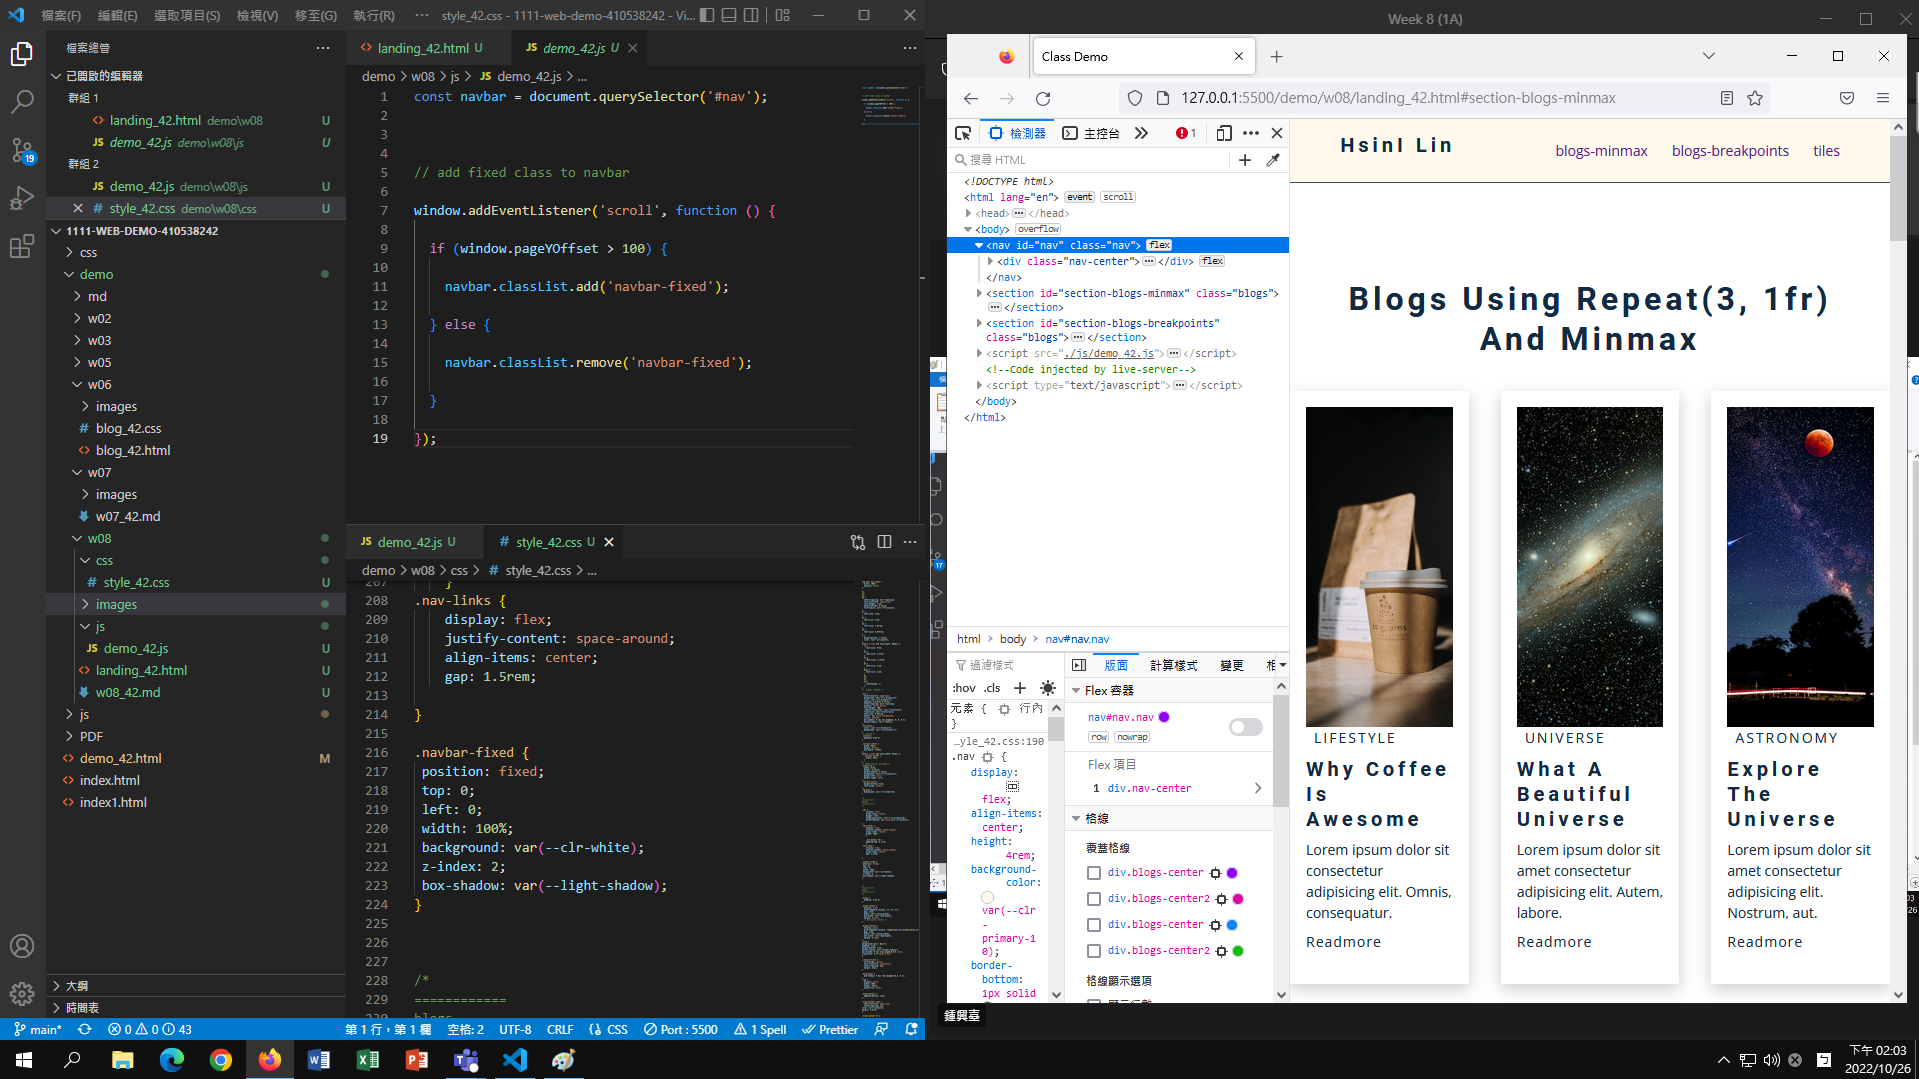
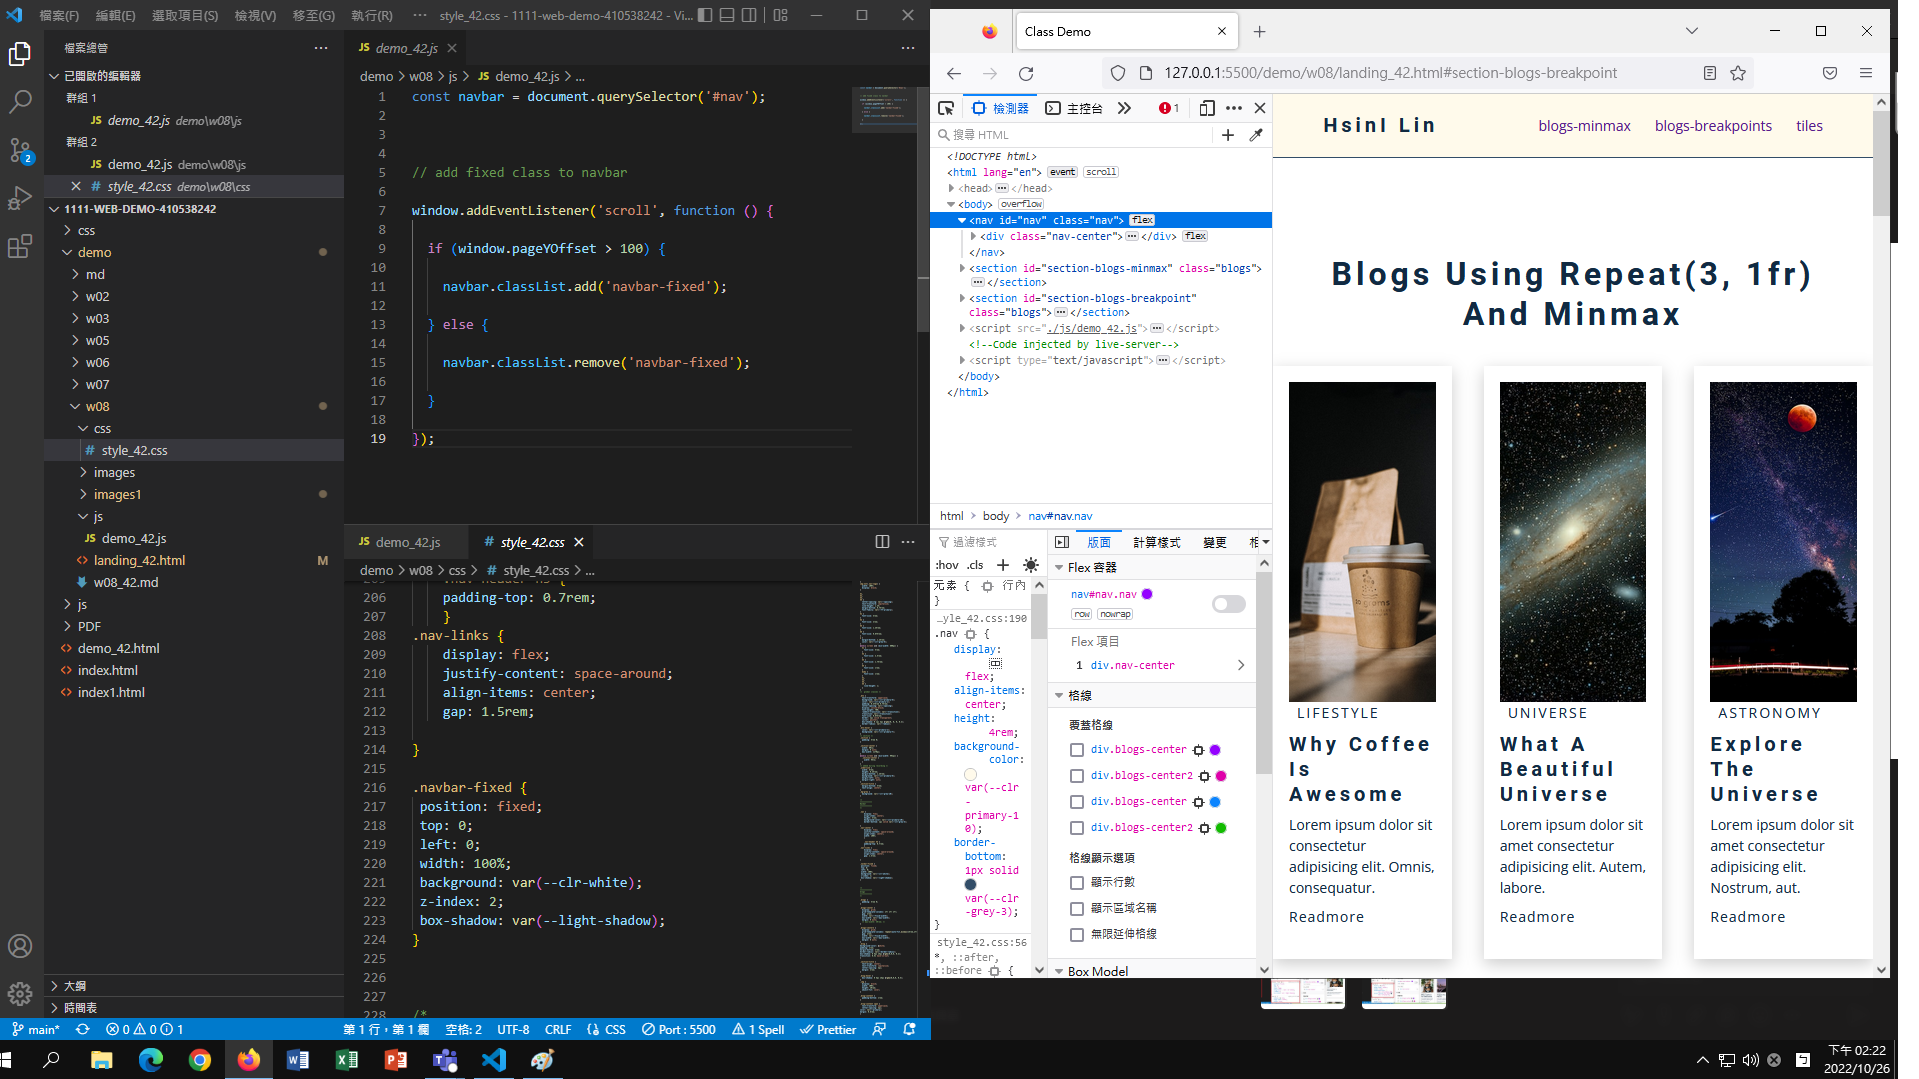
demo

diff --git a/demo/w08/landing_42.html b/demo/w08/landing_42.html
@@ -11,7 +11,7 @@
     <nav class="nav" id="nav">
         <div class="nav-center">
             <!-- nav header -->
-            <div class="navheader">
+            <div class="nav-header">
             <h3>HsinI Lin</h3>
         </div>
         <!-- nav link -->
@@ -23,7 +23,7 @@
                 <a href="#section-blogs-breakpoint">blogs-breakpoints</a>
             </li>
             <li>
-                <a href="#">tiles
+                <a href="#section-tiles-layout">tiles
                 </a>
             </li>
          
@@ -151,7 +151,7 @@
         
 </section>
    
-<section class="blogs" id="section-blogs-breakpoints">
+<section class="blogs" id="section-blogs-breakpoint">
     <div class="section-title">
         <h2>blogs using breakpoints</h2>
     </div>
@@ -270,6 +270,59 @@
         
 </section>
 
+
+<section class="tiles" id="section-tiles-layout">
+    <div class="section-title">
+      <h2>tiles layout</h2>
+    </div>
+    <div class="tiles-center">
+      <!-- single tile -->
+      <article class="tile-1">
+        <img src="./images/coffee.jpg" alt="" />
+      </article>
+      <!--end of single tile -->
+      <!-- single tile -->
+      <article class="tile-2">
+        <img src="./images/galaxy2.jpg" alt="" />
+      </article>
+      <!--end of single tile -->
+      <!-- single tile -->
+      <article class="tile-3">
+        <img src="./images/space3.jpg" alt="" />
+      </article>
+      <!--end of single tile -->
+      <!-- single tile -->
+      <article class="tile-4">
+        <img src="./images/stars4.jpg" alt="" />
+      </article>
+      <!--end of single tile -->
+      <!-- single tile -->
+      <article class="tile-5">
+        <img src="./images/moon5.jpg" alt="" />
+      </article>
+      <!--end of single tile -->
+      <!-- single tile -->
+      <article class="tile-6">
+        <img src="./images/sunris6e.jpg" alt="" />
+      </article>
+      <!--end of single tile -->
+      <!-- single tile -->
+      <article class="tile-7">
+        <img src="./images/sunset7.jpg" alt="" />
+      </article>
+      <!--end of single tile -->
+      <!-- single tile -->
+      <article class="tile-8">
+        <img src="./images/sky8.jpg" alt="" />
+      </article>
+      <!--end of single tile -->
+      <!-- single tile -->
+      <article class="tile-9">
+        <img src="./images/planet9.jpg" alt="" />
+      </article>
+      <!--end of single tile -->
+    </div>
+  </section>
 
 
    <script src="./js/demo_42.js">

diff --git a/demo/w08/css/style_42.css b/demo/w08/css/style_42.css
@@ -308,3 +308,53 @@ margin: 0.5rem;
 }
 
 
+/*
+============
+tiles
+============
+*/
+
+.tiles {
+  padding: 4rem 0;
+}
+
+.tiles-center {
+  width: 90vw;
+  max-width: var(--max-width);
+  margin: 2rem auto;
+  display: grid;
+  gap: 1rem;
+  grid-template-columns: repeat(4, 1fr);
+  grid-template-rows: repeat(5, 12.5rem);
+  grid-template-areas: 
+  'a a a b'
+  'a a a c'
+  'd d d d'
+  'e f f f'
+  'e g h i'
+}
+
+.tiles-center img {
+  display: block;
+  width: 100%;
+  object-fit: cover;
+}
+
+.tiles img {
+  height: 100%;
+}
+
+.tiles-2 {
+  grid-area: b;
+}
+
+
+.tiles-3 {
+  grid-area: c;
+}
+.tiles-7 {
+  grid-area: d;
+}
+.tiles-8 {
+  grid-area: a;
+}
